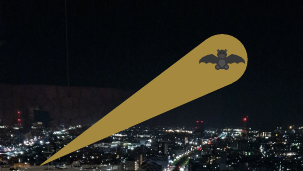
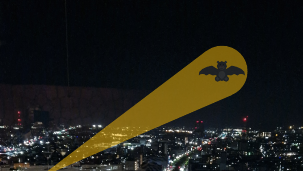
bat bear: fixed opacity

Changed region(s): [[0.1188, 0.1754, 0.8317, 1.0]]

diff --git a/samcarter/batbear/batbear.tex b/samcarter/batbear/batbear.tex
@@ -22,10 +22,10 @@
 \begin{document}
 
 \begin{frame}
+  \vskip-3cm\hskip-3cm
   \begin{tikzpicture}[
-    yshift=5cm,
     remember picture,
-    overlay,
+%    overlay, % see https://tex.stackexchange.com/a/577831/36296 
     decoration={
       markings, 
       mark=at position \thepage/600 with {
@@ -38,15 +38,17 @@
     
     \node (org) at (1,-10) {}; 
     
-    \node[fill=yellow!50!orange!60!black,circle,inner sep=0pt,name path=circle,minimum width=2.7cm] (c) at (aux1) {};
-    
-    % from https://tex.stackexchange.com/a/426259/36296
-    \fill[yellow!50!orange!60!black] (org)  -- (tangent cs:node=c,point={(org)},solution=1) -- (tangent cs:node=c,point={(org)},solution=2) -- (org);    
-    
-    \node at (c) {\includegraphics[width=2.5cm]{bbear}};
+    \begin{scope}[opacity=0.5,transparency group]
+      \node[fill=yellow!50!orange,circle,inner sep=0pt,name path=circle,minimum width=2.7cm] (c) at (aux1) {};
+      
+      % from https://tex.stackexchange.com/a/426259/36296
+      \fill[yellow!50!orange] (org)  -- (tangent cs:node=c,point={(org)},solution=1) -- (tangent cs:node=c,point={(org)},solution=2) -- (org);    
+      
+      \node at (c) {\includegraphics[width=2.5cm]{bbear}};
+    \end{scope}
     
   \end{tikzpicture}
-  \pause[600]
+  \pause[549]
 \end{frame}
 
 \end{document}
